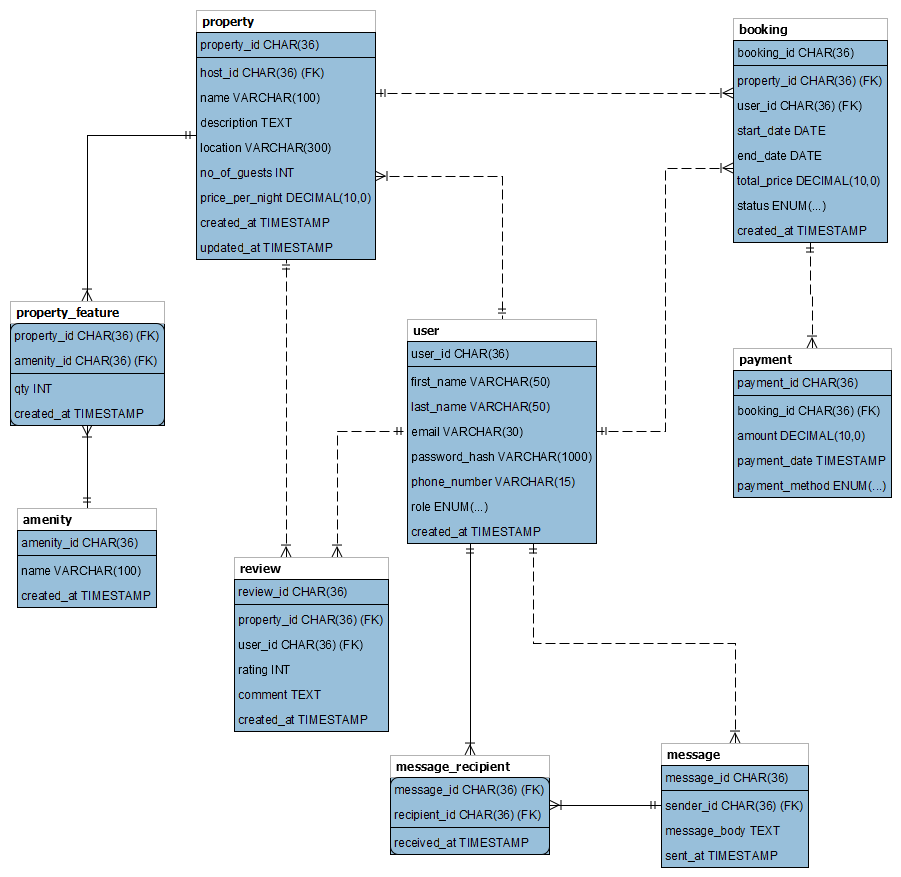
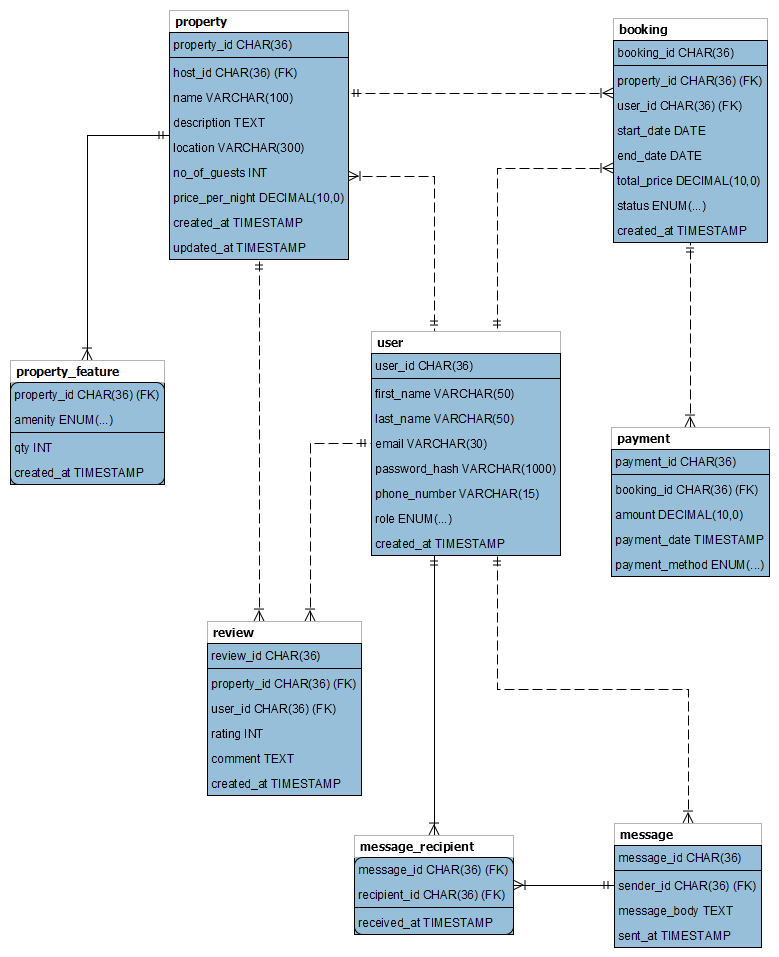
Done - review!!

diff --git a/database-script-0x01/README.md b/database-script-0x01/README.md
@@ -13,7 +13,6 @@
   - [Entities and Attributes](#entities-and-attributes)
     - [User](#user)
     - [Property](#property)
-    - [Amenity](#amenity)
     - [Property\_Feature](#property_feature)
     - [Booking](#booking)
     - [Payment](#payment)
@@ -23,7 +22,6 @@
   - [Constraints](#constraints)
     - [User Table](#user-table)
     - [Property Table](#property-table)
-    - [Amenity Table](#amenity-table)
     - [Property\_Feature Table](#property_feature-table)
     - [Booking Table](#booking-table)
     - [Payment Table](#payment-table)
@@ -47,7 +45,7 @@
 - **`email`**: VARCHAR, UNIQUE, NOT NULL
 - **`password_hash`**: VARCHAR, NOT NULL
 - **`phone_number`**: VARCHAR, NULL
-- **`role`**: ENUM (guest, host, admin), NOT NULL
+- **`role`**: ENUM (GUEST, HOST, ADMIN), NOT NULL
 - **`created_at`**: TIMESTAMP, DEFAULT CURRENT_TIMESTAMP
 
 
@@ -63,17 +61,10 @@
 - **`updated_at`**: TIMESTAMP, ON UPDATE CURRENT_TIMESTAMP
 
 
-#### Amenity
-
-- **`amenity_id`**: Primary Key, UUID, Indexed
-- **`name`**: VARCHAR, UNIQUE, NOT NULL
-- **`created_at`**: TIMESTAMP, DEFAULT CURRENT_TIMESTAMP
-  
-
  #### Property_Feature
 
 - **`property_id`**: Foreign Key, references Property(property_id)
-- **`amenity_id`**: Foreign Key, references Amenity(amenity_id)
+- **`amenity`**: ENUM (WI-FI, POOL, PET), NOT NULL
 - **`qty`**: INTEGER, NOT NULL
 - **`created_at`**: TIMESTAMP, DEFAULT CURRENT_TIMESTAMP
 
@@ -141,16 +132,10 @@
 - **`Non-null`** constraints on essential attributes.
 
 
-#### Amenity Table
-
-- **`Unique`** constraint on `name`.
-- **`Non-null`** constraints on essential attributes.
-
-
 #### Property_Feature Table
 
-- **`Primary key`** constraint on `property_id` and `amenity_id`.
-- **`Foreign key`** constraint on `property_id` and `amenity_id`.
+- **`Primary key`** constraint on `property_id` and `amenity`.
+- **`Foreign key`** constraint on `property_id`.
 - **`Non-null`** constraints on essential attributes.
 
 
@@ -193,7 +178,7 @@
     - **`email`** in the `User` table.
     - **`name`** in the `Amenity` table.
     - **`location`** in the `Property` table.
-    - **`amenity_id`** in the `Property_Feature` table.
+    - **`amenity`** in the `Property_Feature` table.
     - **`property_id`** in the `Property`, `Property_Feature`, and `Booking` tables.
     - **`booking_id`** in the `Booking` and `Payment` tables.
 

diff --git a/database-script-0x02/README.md b/database-script-0x02/README.md
@@ -13,7 +13,6 @@
   - [Entities and Attributes](#entities-and-attributes)
     - [User](#user)
     - [Property](#property)
-    - [Amenity](#amenity)
     - [Property\_Feature](#property_feature)
     - [Booking](#booking)
     - [Payment](#payment)
@@ -23,7 +22,6 @@
   - [Constraints](#constraints)
     - [User Table](#user-table)
     - [Property Table](#property-table)
-    - [Amenity Table](#amenity-table)
     - [Property\_Feature Table](#property_feature-table)
     - [Booking Table](#booking-table)
     - [Payment Table](#payment-table)
@@ -47,7 +45,7 @@
 - **`email`**: VARCHAR, UNIQUE, NOT NULL
 - **`password_hash`**: VARCHAR, NOT NULL
 - **`phone_number`**: VARCHAR, NULL
-- **`role`**: ENUM (guest, host, admin), NOT NULL
+- **`role`**: ENUM (GUEST, HOST, ADMIN), NOT NULL
 - **`created_at`**: TIMESTAMP, DEFAULT CURRENT_TIMESTAMP
 
 
@@ -63,17 +61,10 @@
 - **`updated_at`**: TIMESTAMP, ON UPDATE CURRENT_TIMESTAMP
 
 
-#### Amenity
-
-- **`amenity_id`**: Primary Key, UUID, Indexed
-- **`name`**: VARCHAR, UNIQUE, NOT NULL
-- **`created_at`**: TIMESTAMP, DEFAULT CURRENT_TIMESTAMP
-  
-
  #### Property_Feature
 
 - **`property_id`**: Foreign Key, references Property(property_id)
-- **`amenity_id`**: Foreign Key, references Amenity(amenity_id)
+- **`amenity`**: ENUM (WI-FI, POOL, PET), NOT NULL
 - **`qty`**: INTEGER, NOT NULL
 - **`created_at`**: TIMESTAMP, DEFAULT CURRENT_TIMESTAMP
 
@@ -141,16 +132,10 @@
 - **`Non-null`** constraints on essential attributes.
 
 
-#### Amenity Table
-
-- **`Unique`** constraint on `name`.
-- **`Non-null`** constraints on essential attributes.
-
-
 #### Property_Feature Table
 
-- **`Primary key`** constraint on `property_id` and `amenity_id`.
-- **`Foreign key`** constraint on `property_id` and `amenity_id`.
+- **`Primary key`** constraint on `property_id` and `amenity`.
+- **`Foreign key`** constraint on `property_id`.
 - **`Non-null`** constraints on essential attributes.
 
 
@@ -193,7 +178,7 @@
     - **`email`** in the `User` table.
     - **`name`** in the `Amenity` table.
     - **`location`** in the `Property` table.
-    - **`amenity_id`** in the `Property_Feature` table.
+    - **`amenity`** in the `Property_Feature` table.
     - **`property_id`** in the `Property`, `Property_Feature`, and `Booking` tables.
     - **`booking_id`** in the `Booking` and `Payment` tables.
 

diff --git a/normalization.md b/normalization.md
@@ -13,7 +13,6 @@
     - [Normalized Entity and Attributes](#normalized-entity-and-attributes)
     - [Message](#message)
     - [Message\_Recipient](#message_recipient)
-    - [Amenity](#amenity)
     - [Property\_Feature](#property_feature)
     - [Constraints](#constraints)
     - [Message Table](#message-table)
@@ -58,19 +57,12 @@ It's expected that users will send messages to multiple recipients. Creating a s
 - **`message_id`**: Foreign Key, references Message(message_id)
 - **`recipient_id`**: Foreign Key, references User(user_id)
 - **`received_at`**: TIMESTAMP, DEFAULT CURRENT_TIMESTAMP
-
-
-#### Amenity
-
-- **`amenity_id`**: Primary Key, UUID, Indexed
-- **`name`**: VARCHAR, UNIQUE, NOT NULL
-- **`created_at`**: TIMESTAMP, DEFAULT CURRENT_TIMESTAMP
   
 
  #### Property_Feature
 
 - **`property_id`**: Foreign Key, references Property(property_id)
-- **`amenity_id`**: Foreign Key, references Amenity(amenity_id)
+- **`amenity`**: ENUM (WI-FI, POOL, PET), NOT NULL
 - **`qty`**: INTEGER, NOT NULL
 - **`created_at`**: TIMESTAMP, DEFAULT CURRENT_TIMESTAMP
 
@@ -95,5 +87,5 @@ It's expected that users will send messages to multiple recipients. Creating a s
 
  #### Property_Feature
 
-- **`Foreign key`** constraints on each `property_id` and `amenity_id`.
-- **`Composite Primary key`** constraints on `property_id` and `amenity_id`.
+- **`Foreign key`** constraints on each `property_id`.
+- **`Composite Primary key`** constraints on `property_id` and `amenity`.

diff --git a/README.md b/README.md
@@ -34,7 +34,6 @@ The database structure consists of the following tables:
 
 - `user`: Stores information about users registered on the platform.
 - `property`: Contains details of properties available for booking.
-- `amenity`: Contains amenities available.
 - `property_feature`: Contains details of amenities available for properties.
 - `booking`: Stores booking details made by users for properties.
 - `payment`: Stores payment records related to bookings.
